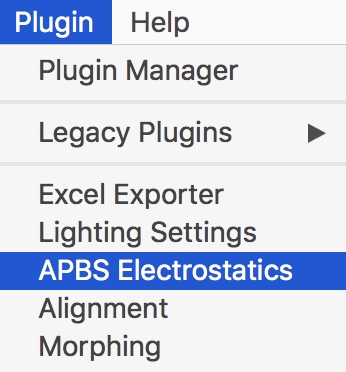
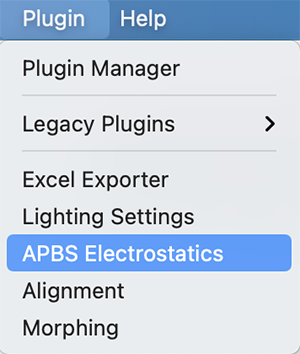
resized

diff --git a/src/ch05/apbs.md b/src/ch05/apbs.md
@@ -1,54 +1,54 @@
 ## APBSプラグインを使った表面電荷表示
 PyMOLのプラグインでデフォルトでインストールされている**APBS**を使って表面電荷を表示してくれる方法を説明します。
 
-<img src="./image/apbs1.png" width="700" title="APBSの表示例">
+<img src="./image/apbs1.png" title="APBSの表示例">
 
 このプラグインは、インストーラー版を使ってPyMOL 2をインストールした場合にはその中に同梱されているので別段の準備は必要ありませんが、オープンソース版をインストールした場合には様々な準備が必要となります。まずはAPBSプラグインの使い方を説明します。
 
 ### APBSを使ってみる
 今回は例としてPDB: 3x2oの構造のみを開いた状態にしておきます。その後、まず上部メニューの[Plugin]を選択し、次に[APBS Electrostatics]を選択します。
 
-<img src="./image/apbsmenu1.png" width="200" title="APBSmenu1">
+<img src="./image/apbsmenu1.png" width="300px" title="APBSmenu1">
 
 中のメニューはこうなっています。
 
-<img src="./image/apbsmenu2.png" width="700" title="APBSmenu2">
+<img src="./image/apbsmenu2.png" width="300px" title="APBSmenu2">
 
 Mainのタブでまず`selection`部分を確認します。この例では`polymer & 3x2o`という表示になっていますが、これはアミノ酸20種類かつオブジェクト3x2oが選択されていることを意味し、この選択範囲についてAPBSの電荷計算をこれから行うことを意味します。
 
 この選択範囲に問題がなければ、このメニューの下の方にあるRunボタンを押すだけでAPBSの計算が動き出します。途中Warnings: "do you want to continue?"が表示された場合はYesと答えておきましょう。
 
-<img src="./image/apbsmenu6.png" width="416" title="APBSmenu6">
+<img src="./image/apbsmenu6.png" title="APBSmenu6">
 
 正常にAPBSの計算が終わると、Close the APBS dialog?と問われます。閉じてもOKです。
 
-<img src="./image/apbsmenu7.png" width="418" title="APBSmenu7">
+<img src="./image/apbsmenu7.png" title="APBSmenu7">
 
 計算が終わると、このように3x2oの表面が赤・白・青に分けて表示されるようになりました。
 
-<img src="./image/apbs4.png" width="700" title="APBS4">
+<img src="./image/apbs4.png" title="APBS4">
 
 **赤は負電荷の多い箇所、青は正電荷の多い箇所**を表しています。白は中性です。
 
 右側のInternal GUIのメニューには`run01`というオブジェクトグループが新しく増えています。ここの＋マークを押すと子オブジェクトが現れます。このうち`apbs_ramp01`というオブジェクトの`A`メニューを開いてみましょう。
 
-<img src="./image/apbs5.png" width="300" title="APBS5">
+<img src="./image/apbs5.png" width="300px" title="APBS5">
 
 上の方の`levels`を選ぶと`Range`を変えることができそうです。このRangeは先述の負電荷・正電荷の色付けの表示領域を表しており、値が小さいほど、描画上で最大となる赤・青のしきい値が小さくなります。つまり、デフォルトの5.0から2.0にしてみると
 
-<img src="./image/apbs6.png" width="700" title="APBS6">
+<img src="./image/apbs6.png" title="APBS6">
 
 こんな感じで赤と青の箇所が濃く表示されるようになります。
 
 この表面電荷表示はSurface表示として扱われているので、`set transparency, 0.5`として透明度を変更してあげることができます(`0.5`は透明度)。
 
-<img src="./image/apbs7.png" width="700" title="APBS7">
+<img src="./image/apbs7.png" title="APBS7">
 
 透明度を下げてCartoon表示とともに観察すれば、分子のどの部分構造の付近が負電荷、正電荷になっているかがわかりやすいと思います。
 
 さて、ここで先程のAPBS Electrostaticsメニューのプラグイン画面に戻ってみましょう。そこのMainタブの下の方には`Other Visualizations`というOptionsボタンがあります。ここを開いてみると、「mapオブジェクトが計算されたあと、オブジェクトメニューパネルの"Action"アイテムを使うことで追加の描画を生成することができる」（日本語訳）と書かれてあります。
 
-<img src="./image/apbsmenu3.png" width="700" title="APBSmenu3">
+<img src="./image/apbsmenu3.png" title="APBSmenu3">
 
 これに従って追加操作をしてみましょう（書きかけ）。
 
@@ -56,13 +56,13 @@ Mainのタブでまず`selection`部分を確認します。この例では`poly
 
 APBS Electrostaticsの計算のパラメータはデフォルトでも十分問題なく動作すると思いますが、上級者のために、パラメータを変更することもできるようになっています。[APBS Templrate]のタブを開くと、表面電荷を計算するための設定ファイルが表示されます。
 
-<img src="./image/apbsmenu4.png" width="700" title="APBSmenu4"><br>
+<img src="./image/apbsmenu4.png" title="APBSmenu4"><br>
 
 ここのBrowse...のところからは完成された設定ファイルを読み込ませることができます。公式ドキュメントは[https://apbs-pdb2pqr.readthedocs.io/en/latest/apbs/input/](https://apbs-pdb2pqr.readthedocs.io/en/latest/apbs/input/) にあるので、そちらを参考にするのも良いでしょう。
 
 最後の[Advanced Configuration]タブからは、APBSとPDB2PQRのプログラムのインストール場所を指定したり、コマンドオプションを追加して計算させることもできます。追加コマンドオプションの一覧は[https://apbs-pdb2pqr.readthedocs.io/en/latest/pdb2pqr/invoking.html](https://apbs-pdb2pqr.readthedocs.io/en/latest/pdb2pqr/invoking.html)などが参考になります。
 
-<img src="./image/apbsmenu5.png" width="700" title="APBSmenu5">
+<img src="./image/apbsmenu5.png" title="APBSmenu5">
 
 以下の項で説明するように、オープンソース版PyMOLではAPBS, PDB2PQRがプリインストールされていないため、自前で用意してからこのAdvanced Configurationで正しくプログラムの位置を指定してあげる必要があります。
 
@@ -122,11 +122,11 @@ rm -rf ~/pymolplugin
 
 と入力します。このコピーを行った後にopen-source版PyMOLを立ち上げると、上部メニューのPluginのところにAPBS Electrostaticsの文字が現れているはずです。
 
-<img src="./image/apbsmenu1.png" width="200" title="APBSmenu1">
+<img src="./image/apbsmenu1.png" title="APBSmenu1">
 
 この文字をクリックし、Advanced Configurationのタブをクリックします。このProgram Locationsを自身の環境にあわせて設定する必要があります。
 
-<img src="./image/apbs3.png" width="700" title="APBSの表示例">
+<img src="./image/apbs3.png" title="APBSの表示例">
 
 HomebrewでAPBSとPDB2PQRをインストールした場合は、上図のようにapbsの欄を`/usr/local/bin/apbs`にし、pdb2pqrの欄を`/usr/local/bin/pdb2pqr`に設定します。もしソースコードからインストールした場合にはこの限りではありませんので、適切なapbs, pdb2pqrバイナリ本体へのpathを指定しましょう。
 

diff --git a/src/ch02/session.md b/src/ch02/session.md
@@ -1,9 +1,9 @@
 # セッションの保存
 **セッション**とは、一連のインタラクティブ操作のことを指します（コンピュータ用語）。PyMOLにおいては、開いてから現在に至るまでの作業記録、と考えることができます。つまり、**セッションの保存**を利用すると作業状態をファイルに保存しておくことができ、あとでその状態を復元することができます。この機能を利用すれば、論文の図を作成している最中に様々な設定を試すことができたり、PyMOLの画面の状態を他の人に表示して確認してもらうということも可能になります。
 
-やり方は簡単で、上部メニューの[**File**]から[**Save Session As...**]を選び、ファイル名を指定してSaveボタンを押して保存するだけです。<br><img src="./image/session/session1.png">
+やり方は簡単で、上部メニューの[**File**]から[**Save Session As...**]を選び、ファイル名を指定してSaveボタンを押して保存するだけです。<br><img src="./image/session/session1.png" width="250px">
 
-Sessionのファイル形式には**pse**形式と**psw**形式の2つがあります。基本的にはpseファイル形式の方で保存する方がよいでしょう。pswファイルで保存した場合は、そのファイルを開くときに全画面表示が標準になります。例えばデスクトップに`foo.pse`というファイル名で保存したい場合は以下のように入力して[save]ボタンを押します。<br><img src="./image/session/session2.png">
+Sessionのファイル形式には**pse**形式と**psw**形式の2つがあります。基本的にはpseファイル形式の方で保存する方がよいでしょう。pswファイルで保存した場合は、そのファイルを開くときに全画面表示が標準になります。例えばデスクトップに`foo.pse`というファイル名で保存したい場合は以下のように入力して[save]ボタンを押します。<br><img src="./image/session/session2.png" width="400px">
 
 こうして保存されたセッションファイルを再度PyMOLからロードすれば、元の作業状態に戻すことができます。
 

diff --git a/src/ch02/saveimage.md b/src/ch02/saveimage.md
@@ -1,19 +1,19 @@
 # 画像の保存
 PyMOLで表示されている画像を保存することができます。上部メニューの[**File**]から[**Export Image As...**] → [**PNG**]を選ぶと、保存メニューが現れます。
 
-<img src="./image/saveimage/saveimage1.png">
+<img src="./image/saveimage/saveimage1.png" width="300px">
 
 デフォルトでは"capture current display"と表示されています。
 
-<img src="./image/saveimage/saveimage2.png">
+<img src="./image/saveimage/saveimage2.png" width="300px">
 
 この設定で下にある"Save PNG image as..."を押すと、保存先を指定するメニューが表示され、名前を入れて保存することができます（画像はいずれも`bg_color white`で白背景にした場合で表示しています）。
 
-<img src="./image/saveimage/saveimage_1alk.png">
+<img src="./image/saveimage/saveimage_1alk.png" width="400px">
 
 これでとりあえず上のような画像を保存することができましたが、他にも様々なメニューがあるので、状況によって使い分けると良いでしょう。まずは、"capture current display"のプルダウンメニューの部分を押すと、
 
-<img src="./image/saveimage/saveimage3.png">
+<img src="./image/saveimage/saveimage3.png" width="300px">
 
 計4つのメニューがあることがわかります。まず"draw antialiased OpenGL image"とすると、描画にアンチエイリアスがかかります（※なおmacOSの場合、現状OpenGL周りの処理にバグがあるためWARNINGSのメッセージが出ています。）
 
@@ -35,7 +35,7 @@ PyMOLで表示されている画像を保存することができます。上部
 
 これをクリックすると設定メニューが表示されます。
 
-<img src="./image/saveimage/saveimage5.png" width="60%">
+<img src="./image/saveimage/saveimage5.png" width="400px">
 
 先述のメニューでは出力される縦と横の画像サイズは指定できませんでしたが、先にここのメニューで縦(Height)と横(Width)の値を目的の値に変更しておけば指定することができます。
 

diff --git a/src/ch01/savesessionfile.md b/src/ch01/savesessionfile.md
@@ -1,14 +1,14 @@
 ### セッションファイルへの保存
 ここまでの作業内容をセッションファイルに保存します。セッションファイルとは、現在のPyMOLの画面の状態をそのまま保存しておくファイルのことです。画面上部にあるFileメニューから`Save session as…`を選んで名前を指定して保存します(`kadai1.pse`など、わかりやすい名前をつけましょう)。（参考：[セッションの保存](../ch02/session.md) ）。
 
-<img src="./image/savesession.png" alt="セッションファイルへの保存">
+<img src="./image/savesession.png" width="300px" alt="セッションファイルへの保存">
 
 保存したセッションファイルはFile > Openメニューから読み込むことができます。
 
-<img src="./image/fileopen.png" alt="ファイルを開く">
+<img src="./image/fileopen.png" width="300px" alt="ファイルを開く">
 
 すでにタンパク質を他に表示させている状態でセッションファイルを読み込もうとすると下図のようなメッセージが現れますが、今開いている画面と別のPyMOL画面でタンパク質を表示させたい場合は、一番下の`Open in new PyMOL Window`を選択することをおすすめします。
 
-<img src="./image/loadsession.png" alt="セッションを開く時のプロンプト画面">
+<img src="./image/loadsession.png" width="300px" alt="セッションを開く時のプロンプト画面">
 
 ※ （上級者向け）上述の`PyMOL> `の入力欄にコマンドを入力することでも可能です。デスクトップ上に保存したい場合は、`cd ~/Desktop`としてWorking Directoryをデスクトップに設定した後、`save kadai1.pse`とすることでセッションファイルを保存できます。
